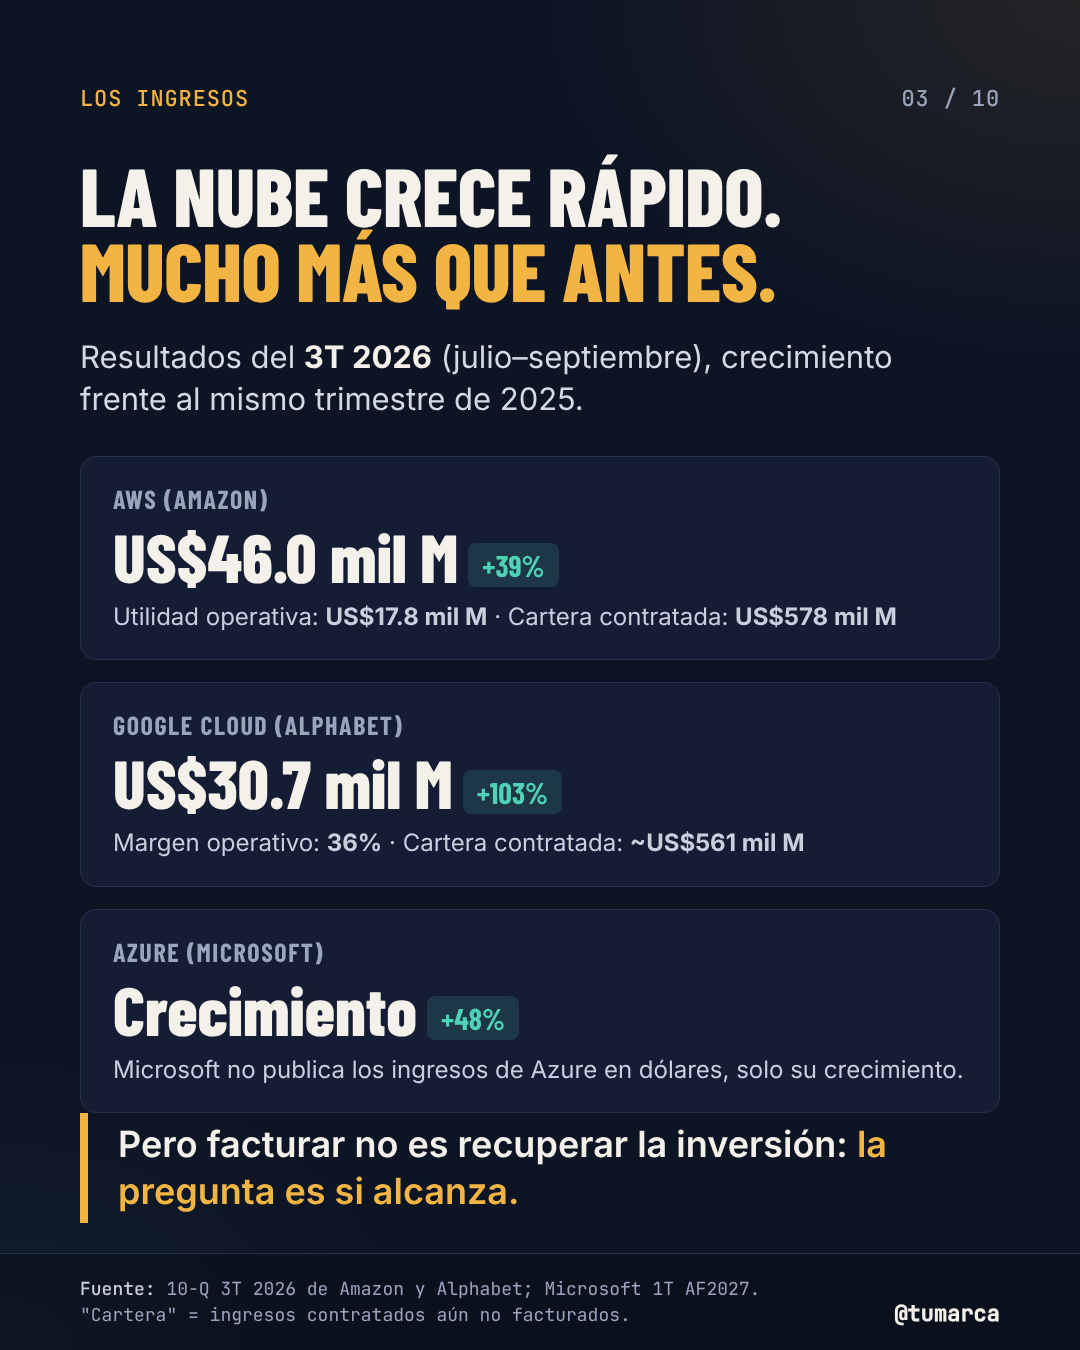
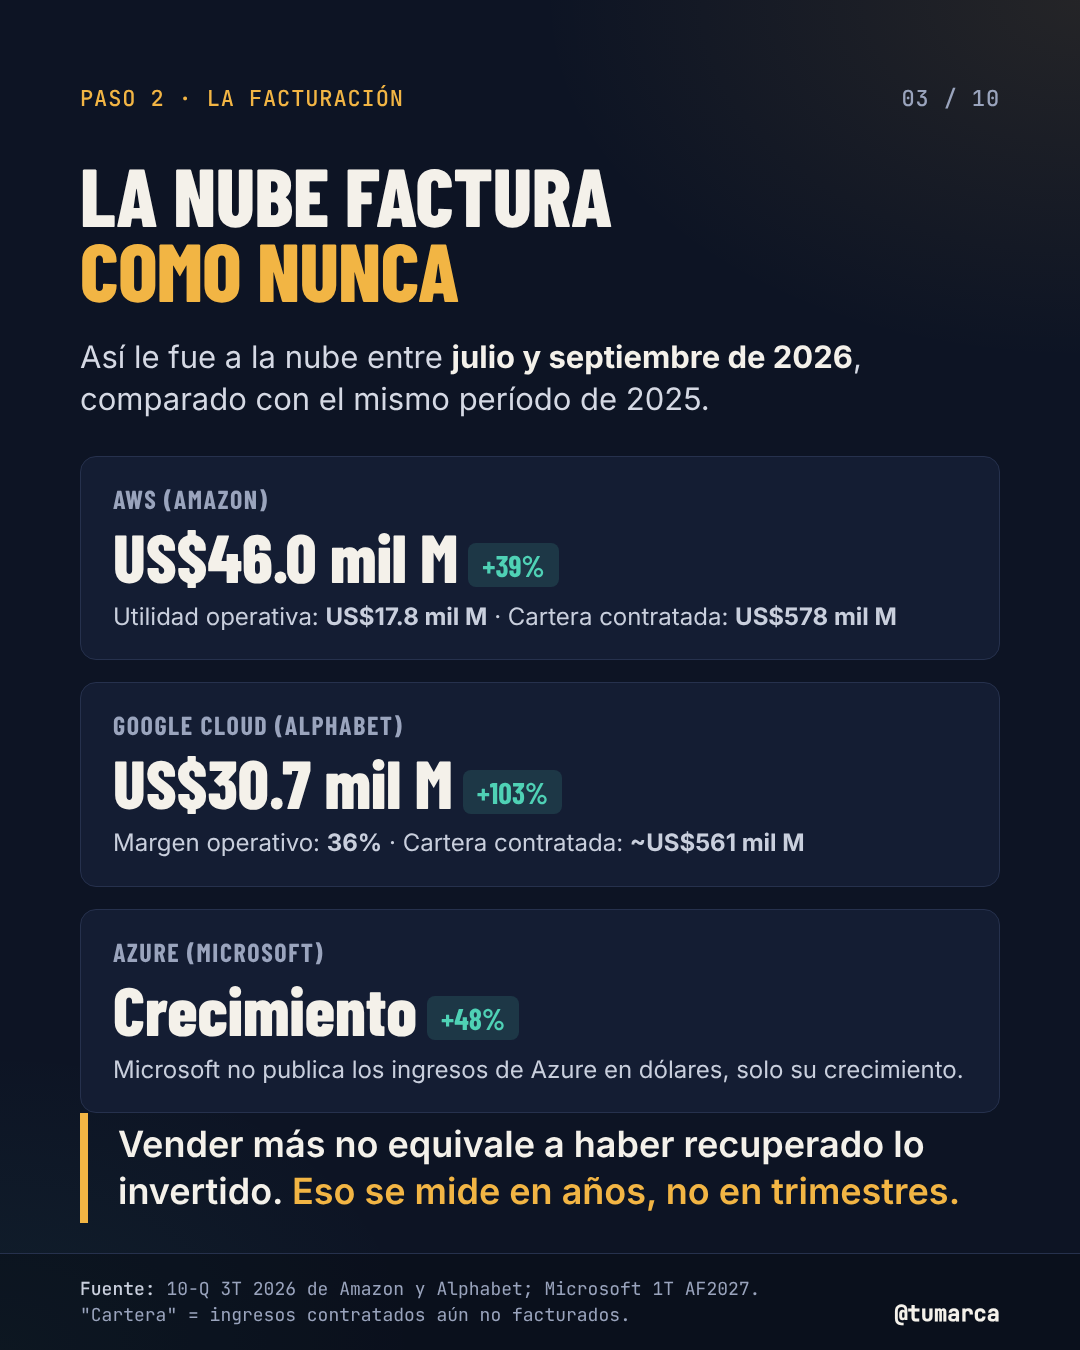
Reescribir los textos del carrusel con un enfoque propio (sigue el dinero)
Claude-Session: https://claude.ai/code/session_01BqN8QAh1DTFcE5FUP8D33u

Changed region(s): [[0.0611, 0.1244, 0.825, 0.3111], [0.0917, 0.84, 0.8861, 0.9022], [0.0611, 0.0622, 0.3667, 0.0933]]

diff --git a/carrusel-ia-dinero/index.html b/carrusel-ia-dinero/index.html
@@ -55,7 +55,7 @@
   .total{margin-top:auto;margin-bottom:44px;background:var(--gold);color:var(--bg);border-radius:14px;
          padding:30px 38px;display:flex;justify-content:space-between;align-items:center}
   .total .k{font:700 30px "Barlow Condensed";text-transform:uppercase;letter-spacing:.02em;max-width:420px;line-height:1.05}
-  .total .v{font:800 84px "Barlow Condensed";line-height:1}
+  .total .v{font:800 72px "Barlow Condensed";line-height:1}
 
   .cards{display:grid;gap:22px}
   .card{background:var(--bg2);border:1px solid var(--line);border-radius:16px;padding:26px 32px}
@@ -76,9 +76,9 @@
 
 <!-- 01 PORTADA -->
 <section class="slide" id="s01">
-  <div class="top"><span class="tag">IA · DINERO · 2026</span><span>01 / 10</span></div>
-  <h1>La IA va a cambiar el mundo.<br><span class="gold">¿Pero quién va a ganar dinero?</span></h1>
-  <p class="lede">Lo que se invierte, lo que se factura, quién cobra y quién se endeuda. <b>Cada cifra, con su fuente.</b></p>
+  <div class="top"><span class="tag">SIGUE EL DINERO · IA 2026</span><span>01 / 10</span></div>
+  <h1>Nunca se invirtió tanto en tecnología.<br><span class="gold">¿Quién se lo queda?</span></h1>
+  <p class="lede">Recorremos la cadena completa: de dónde sale el dinero, quién lo cobra hoy y quién carga con la deuda. <b>Todo con números y fuentes.</b></p>
   <div class="body">
     <div class="cards" style="grid-template-columns:1fr 1fr 1fr;margin-top:30px">
       <div class="card"><div class="h">Capex 2026</div><div class="big gold" style="font-size:64px">~US$730</div><div class="note">mil millones · 4 gigantes tecnológicas</div></div>
@@ -87,7 +87,7 @@
     </div>
     <div style="margin-top:auto;margin-bottom:46px;display:flex;justify-content:space-between;align-items:center">
       <span class="stamp">DATOS AL 12 · NOV · 2026</span>
-      <span style="font:700 40px 'Barlow Condensed';text-transform:uppercase;color:var(--gold)">Desliza →</span>
+      <span style="font:700 40px 'Barlow Condensed';text-transform:uppercase;color:var(--gold)">Empieza aquí →</span>
     </div>
   </div>
   <div class="foot"><div class="src">Fuentes detalladas en cada lámina y en la lámina 10.</div><div class="brand"></div></div>
@@ -95,9 +95,9 @@
 
 <!-- 02 CAPEX -->
 <section class="slide" id="s02">
-  <div class="top"><span class="tag">LA APUESTA</span><span>02 / 10</span></div>
-  <h2>~US$730 mil millones<br><span class="gold">en un solo año</span></h2>
-  <p class="lede">Gasto de capital (capex) previsto para <b>2026</b>: centros de datos, chips y energía. En miles de millones de US$.</p>
+  <div class="top"><span class="tag">PASO 1 · LA INVERSIÓN</span><span>02 / 10</span></div>
+  <h2>Cuatro empresas,<br><span class="gold">un cheque de ~US$730 mil M</span></h2>
+  <p class="lede">Lo que Amazon, Alphabet, Microsoft y Meta planean destinar en <b>2026</b> a servidores, chips, terrenos y electricidad. En miles de millones de US$.</p>
   <div class="body">
     <div class="bars">
       <div class="bar-row"><div class="bar-label">Amazon<small>guía ~220</small></div>
@@ -109,17 +109,17 @@
       <div class="bar-row"><div class="bar-label">Meta<small>guía 135–145</small></div>
         <div class="track"><div class="fill" style="width:54%">135</div><div class="ext" style="left:54%;width:4%"></div><span class="valout" style="left:60%">–145</span></div></div>
     </div>
-    <p style="font-size:24px;color:var(--mute);margin-top:30px;line-height:1.4">Microsoft recortó su cifra de 175 a 170 mil M el 28 oct por retrasos de capacidad de terceros. Alphabet y Meta ya anticipan <b style="color:var(--ink)">más</b> gasto en 2027.</p>
-    <div class="total"><div class="k">Total combinado 2026</div><div class="v">US$720–740 mil M</div></div>
+    <p style="font-size:24px;color:var(--mute);margin-top:30px;line-height:1.4">Microsoft bajó de 175 a 170 mil M porque le llegó tarde capacidad de proveedores. Para 2027, Alphabet y Meta ya avisaron que el gasto <b style="color:var(--ink)">sube</b>.</p>
+    <div class="total"><div class="k">Suma de las cuatro</div><div class="v">US$720–740 mil M</div></div>
   </div>
   <div class="foot"><div class="src"><b>Fuente:</b> guías de capex de Amazon, Alphabet, Microsoft y Meta en sus resultados del 3T 2026 (oct. 2026); recorte de Microsoft: llamada de resultados 1T año fiscal 2027 (28/10/2026).</div><div class="brand"></div></div>
 </section>
 
 <!-- 03 NUBE -->
 <section class="slide" id="s03">
-  <div class="top"><span class="tag">LOS INGRESOS</span><span>03 / 10</span></div>
-  <h2>La nube crece rápido.<br><span class="gold">Mucho más que antes.</span></h2>
-  <p class="lede">Resultados del <b>3T 2026</b> (julio–septiembre), crecimiento frente al mismo trimestre de 2025.</p>
+  <div class="top"><span class="tag">PASO 2 · LA FACTURACIÓN</span><span>03 / 10</span></div>
+  <h2>La nube factura<br><span class="gold">como nunca</span></h2>
+  <p class="lede">Así le fue a la nube entre <b>julio y septiembre de 2026</b>, comparado con el mismo período de 2025.</p>
   <div class="body">
     <div class="cards">
       <div class="card"><div class="h">AWS (Amazon)</div>
@@ -132,39 +132,39 @@
         <div class="big" style="font-size:68px">Crecimiento<span class="pill">+48%</span></div>
         <div class="note">Microsoft no publica los ingresos de Azure en dólares, solo su crecimiento.</div></div>
     </div>
-    <div class="callout">Pero facturar no es recuperar la inversión: <span class="gold">la pregunta es si alcanza.</span></div>
+    <div class="callout">Vender más no equivale a haber recuperado lo invertido. <span class="gold">Eso se mide en años, no en trimestres.</span></div>
   </div>
   <div class="foot"><div class="src"><b>Fuente:</b> 10-Q 3T 2026 de Amazon y Alphabet; Microsoft 1T AF2027. "Cartera" = ingresos contratados aún no facturados.</div><div class="brand"></div></div>
 </section>
 
 <!-- 04 BRECHA -->
 <section class="slide" id="s04">
-  <div class="top"><span class="tag">LA BRECHA</span><span>04 / 10</span></div>
-  <h2>¿Alcanza<br><span class="gold">el dinero?</span></h2>
-  <p class="lede">Bain & Company calculó cuánto tendría que facturar la industria para pagar el cómputo que planea construir.</p>
+  <div class="top"><span class="tag">PASO 3 · LA CUENTA</span><span>04 / 10</span></div>
+  <h2>Las cuentas<br><span class="gold">todavía no cierran</span></h2>
+  <p class="lede">Bain & Company estimó cuánto tendría que vender la industria cada año para financiar todo el cómputo que se está planificando.</p>
   <div class="body">
     <div class="bars" style="gap:26px">
-      <div class="bar-row" style="grid-template-columns:300px 1fr"><div class="bar-label">Necesario<small>ingresos anuales a 2030</small></div>
+      <div class="bar-row" style="grid-template-columns:300px 1fr"><div class="bar-label">Haría falta<small>ingresos por año en 2030</small></div>
         <div class="track"><div class="fill" style="width:100%">US$2 billones</div></div></div>
-      <div class="bar-row" style="grid-template-columns:300px 1fr"><div class="bar-label">Alcanzable<small>aun con ahorros por IA</small></div>
+      <div class="bar-row" style="grid-template-columns:300px 1fr"><div class="bar-label">Se proyecta<small>incluyendo ahorros por IA</small></div>
         <div class="track"><div class="fill" style="width:60%;background:var(--teal)">~US$1.2 bill.</div>
           <div class="ext" style="left:60%;width:40%;background:repeating-linear-gradient(135deg,rgba(255,107,94,.6) 0 8px,rgba(255,107,94,.2) 8px 16px)"></div></div></div>
     </div>
     <div class="card" style="margin-top:44px;border-color:rgba(255,107,94,.5)">
-      <div class="h">Brecha estimada</div>
+      <div class="h">Lo que falta</div>
       <div class="big red">US$800 mil millones / año</div>
       <div class="note">Bain, septiembre 2025. La demanda mundial de cómputo para IA podría llegar a 200 GW en 2030.</div>
     </div>
-    <div class="callout" style="font-size:30px">Antecedente: en junio de 2024, Sequoia Capital lo bautizó como <span class="gold">"la pregunta de los US$600 mil millones"</span>.</div>
+    <div class="callout" style="font-size:30px">La alerta no es nueva: en 2024, Sequoia Capital ya calculaba un hueco de <span class="gold">US$600 mil millones</span> entre gasto e ingresos.</div>
   </div>
   <div class="foot"><div class="src"><b>Fuente:</b> Bain & Company, Global Technology Report 2025 (23/09/2025); David Cahn, Sequoia Capital, "AI's $600B Question" (20/06/2024).</div><div class="brand"></div></div>
 </section>
 
 <!-- 05 NVIDIA -->
 <section class="slide" id="s05">
-  <div class="top"><span class="tag">LAS PALAS</span><span>05 / 10</span></div>
-  <h2 style="font-size:76px">Los que venden las palas<br><span class="gold">ya están cobrando</span></h2>
-  <p class="lede">Como en la fiebre del oro: <b>Nvidia</b> vende los chips mientras los demás buscan recuperar la inversión. Ingresos trimestrales, miles de millones de US$.</p>
+  <div class="top"><span class="tag">PASO 4 · QUIÉN COBRA HOY</span><span>05 / 10</span></div>
+  <h2 style="font-size:76px">Nvidia no espera el retorno:<br><span class="gold">lo cobra cada trimestre</span></h2>
+  <p class="lede">Sus clientes apuestan a ganar en el futuro; el proveedor de los chips factura <b>ya</b>. Ingresos por trimestre, en miles de millones de US$.</p>
   <div class="body">
     <div style="display:flex;align-items:flex-end;gap:36px;height:320px;padding:0 10px;border-bottom:2px solid var(--line)">
       <div style="flex:1;text-align:center"><div style="font:800 46px 'Barlow Condensed'">46.7</div><div style="height:131px;background:var(--line);border-radius:8px 8px 0 0;margin-top:8px"></div></div>
@@ -177,7 +177,7 @@
     </div>
     <div class="cards" style="grid-template-columns:1fr 1fr;margin-top:26px">
       <div class="card" style="padding:24px 30px"><div class="h">Centros de datos</div><div class="big" style="font-size:66px">US$89.0 mil M<span class="pill">+117%</span></div><div class="note" style="font-size:22px">93% de sus ventas del 2T</div></div>
-      <div class="card" style="padding:24px 30px"><div class="h">Margen bruto</div><div class="big teal" style="font-size:66px">75.0%</div><div class="note" style="font-size:22px">De cada US$100 vendidos, quedan US$75 tras el costo de producir</div></div>
+      <div class="card" style="padding:24px 30px"><div class="h">Margen bruto</div><div class="big teal" style="font-size:66px">75.0%</div><div class="note" style="font-size:22px">Por cada US$100 en ventas, US$75 quedan después de fabricar</div></div>
     </div>
   </div>
   <div class="foot" style="margin-top:30px"><div class="src"><b>Fuente:</b> NVIDIA, resultados del 1T y 2T del año fiscal 2027 (trimestre cerrado el 26/07/2026) y guía del 3T. AF = año fiscal de Nvidia.</div><div class="brand"></div></div>
@@ -185,63 +185,63 @@
 
 <!-- 06 RIESGO -->
 <section class="slide" id="s06">
-  <div class="top"><span class="tag">EL RIESGO</span><span>06 / 10</span></div>
-  <h2>No todos arriesgan<br><span class="gold">lo mismo</span></h2>
-  <p class="lede">Lo que importa es <b>con qué dinero</b> se paga la apuesta.</p>
+  <div class="top"><span class="tag">PASO 5 · DE DÓNDE SALE LA PLATA</span><span>06 / 10</span></div>
+  <h2>Mismo juego,<br><span class="gold">distinto colchón</span></h2>
+  <p class="lede">El riesgo cambia según <b>quién pone el capital</b> para construir.</p>
   <div class="body">
     <div class="cards">
-      <div class="card" style="border-left:8px solid var(--teal)"><div class="h teal">1 · Gigantes — pagan con su propia caja</div>
-        <div class="note" style="font-size:25px;margin-top:10px">AWS ganó <b>US$17.8 mil M</b> de utilidad operativa en un solo trimestre (3T 2026). Pueden absorber años de inversión.</div></div>
-      <div class="card" style="border-left:8px solid var(--gold)"><div class="h gold">2 · Laboratorios — dependen de inversionistas</div>
-        <div class="note" style="font-size:25px;margin-top:10px">OpenAI proyecta flujo de caja libre negativo de <b>US$278 mil M</b> entre 2026 y 2030. Anthropic reporta compromisos de cómputo por <b>~US$895 mil M</b>.</div></div>
-      <div class="card" style="border-left:8px solid var(--red)"><div class="h red">3 · Neoclouds — se financian con deuda</div>
-        <div class="note" style="font-size:25px;margin-top:10px">CoreWeave: <b>US$35.6 mil M</b> de deuda + <b>US$16.3 mil M</b> en arrendamientos; algunos bonos llegaron a rendir <b>15%</b>. Oracle: flujo de caja libre de <b>−US$23.7 mil M</b> en su año fiscal 2026.</div></div>
+      <div class="card" style="border-left:8px solid var(--teal)"><div class="h teal">1 · Caja propia — Big Tech</div>
+        <div class="note" style="font-size:25px;margin-top:10px">Generan suficiente efectivo para expandirse sin pedir prestado: AWS dejó <b>US$17.8 mil M</b> de utilidad operativa en tres meses.</div></div>
+      <div class="card" style="border-left:8px solid var(--gold)"><div class="h gold">2 · Capital de terceros — laboratorios de IA</div>
+        <div class="note" style="font-size:25px;margin-top:10px">Queman más de lo que ingresan y necesitan rondas o bolsa: OpenAI prevé <b>−US$278 mil M</b> de flujo libre entre 2026 y 2030; Anthropic ya firmó <b>~US$895 mil M</b> en cómputo.</div></div>
+      <div class="card" style="border-left:8px solid var(--red)"><div class="h red">3 · Préstamos — neoclouds y Oracle</div>
+        <div class="note" style="font-size:25px;margin-top:10px">CoreWeave carga <b>US$35.6 mil M</b> en deuda más <b>US$16.3 mil M</b> en arrendamientos, con bonos que llegaron a pagar <b>15%</b>. Oracle cerró su año fiscal con <b>−US$23.7 mil M</b> de flujo libre.</div></div>
     </div>
-    <div class="callout">Si los ingresos tardan, <span class="red">los más endeudados sufren primero.</span></div>
+    <div class="callout">Quien paga intereses <span class="red">no tiene el lujo de esperar</span> a que lleguen los ingresos.</div>
   </div>
   <div class="foot"><div class="src"><b>Fuente:</b> Amazon 3T 2026; OpenAI vía FT/Reuters (18/09/2026); Anthropic S-1/A; CoreWeave 10-Q 2T 2026; CNN (20/10/2026); Oracle 8-K AF2026.</div><div class="brand"></div></div>
 </section>
 
 <!-- 07 ANTHROPIC IPO -->
 <section class="slide" id="s07">
-  <div class="top"><span class="tag">LA PRUEBA</span><span>07 / 10</span></div>
-  <h2 style="font-size:76px">Anthropic saldría a bolsa<br><span class="gold">el 19 de noviembre (aprox.)</span></h2>
-  <p class="lede">La creadora de Claude lanzó su <i>roadshow</i> el 10 de noviembre. Será el termómetro del apetito de Wall Street por la IA.</p>
+  <div class="top"><span class="tag">PASO 6 · EL MERCADO OPINA</span><span>07 / 10</span></div>
+  <h2 style="font-size:76px">ANT: la IA pasa<br><span class="gold">su primer examen público</span></h2>
+  <p class="lede">Anthropic (la empresa de Claude) inició su <i>roadshow</i> el 10/11 y apunta a cotizar cerca del <b>19 de noviembre</b>. El precio mostrará cuánto vale este negocio para los inversionistas.</p>
   <div class="body">
     <div class="cards" style="grid-template-columns:1fr 1fr">
       <div class="card"><div class="h">Oferta</div><div class="big" style="font-size:54px">825 M acciones</div><div class="note">Clase A, a <b>US$70–78</b> c/u · Nasdaq: <b>ANT</b></div></div>
       <div class="card"><div class="h">Recaudación</div><div class="big gold" style="font-size:54px">hasta ~US$64<span style="font-size:36px"> mil M</span></div><div class="note">En el tope del rango</div></div>
-      <div class="card"><div class="h">Valoración diluida</div><div class="big" style="font-size:54px">US$1.26–1.41 bill.</div><div class="note">Hace un mes se hablaba de US$2 billones</div></div>
+      <div class="card"><div class="h">Valoración diluida</div><div class="big" style="font-size:54px">US$1.26–1.41 bill.</div><div class="note">A inicios de octubre se especulaba con US$2 billones</div></div>
       <div class="card"><div class="h">Ingresos 3T 2026</div><div class="big teal" style="font-size:54px">US$16.96 mil M</div><div class="note">vs. US$11.56 mil M en el 2T · pérdida neta 3T: <b class="red">US$23.3 mil M</b></div></div>
     </div>
-    <p style="font-size:22px;color:var(--mute);margin-top:26px;line-height:1.4">Gran parte de la pérdida es contable (no en efectivo), ligada a instrumentos financieros emitidos para levantar capital. Precio final y fecha aún <b style="color:var(--ink)">no confirmados</b> al 12/11/2026.</p>
+    <p style="font-size:22px;color:var(--mute);margin-top:26px;line-height:1.4">Buena parte de esa pérdida no es salida de caja: son cargos contables por los instrumentos con que levantó capital. Al 12/11/2026, precio y fecha siguen <b style="color:var(--ink)">sin confirmar</b>.</p>
   </div>
   <div class="foot" style="margin-top:20px"><div class="src"><b>Fuente:</b> Anthropic, anuncio del roadshow (10/11/2026); Formulario S-1/A ante la SEC; CNBC (10/11/2026); New York Times vía Gizmodo. 1 billón = 1 millón de millones.</div><div class="brand"></div></div>
 </section>
 
 <!-- 08 HISTORIA -->
 <section class="slide" id="s08">
-  <div class="top"><span class="tag">LA HISTORIA</span><span>08 / 10</span></div>
-  <h2 style="font-size:76px">La tecnología puede triunfar<br><span class="gold">y sus inversionistas perder</span></h2>
-  <p class="lede">Ya pasó. Dos veces, por lo menos.</p>
+  <div class="top"><span class="tag">ESPEJO HISTÓRICO</span><span>08 / 10</span></div>
+  <h2 style="font-size:76px">La infraestructura se queda.<br><span class="gold">El capital, no siempre.</span></h2>
+  <p class="lede">Dos auges que construyeron algo útil y aun así dejaron pérdidas enormes.</p>
   <div class="body">
     <div class="cards">
       <div class="card"><div class="h">Fiebre ferroviaria · Reino Unido, década de 1840</div>
         <div class="big red" style="font-size:64px">−50%+</div>
-        <div class="note" style="font-size:25px">Las acciones tocaron máximo en 1845; para 1850 valían <b>menos de la mitad</b>. Muchos compraron con 10% de depósito y lo perdieron todo al llegar los pagos pendientes. <span class="teal">Pero el país quedó con una red ferroviaria nacional.</span></div></div>
+        <div class="note" style="font-size:25px">Las acciones de trenes alcanzaron su techo en 1845 y cinco años después valían <b>menos de la mitad</b>. Quienes entraron pagando solo 10% quedaron atrapados cuando les exigieron el resto. <span class="teal">El legado: la red ferroviaria del país.</span></div></div>
       <div class="card"><div class="h">Burbuja puntocom · 2000–2002</div>
         <div class="big red" style="font-size:64px">−78%</div>
-        <div class="note" style="font-size:25px">El Nasdaq cayó de 5,048 (mar. 2000) a 1,114 (oct. 2002). <span class="teal">Pero internet sí cambió el mundo.</span></div></div>
+        <div class="note" style="font-size:25px">El Nasdaq pasó de 5,048 puntos (mar. 2000) a 1,114 (oct. 2002). <span class="teal">Internet siguió creciendo de todas formas.</span></div></div>
     </div>
-    <div class="callout" style="font-size:40px;font-family:'Barlow Condensed';font-weight:800;text-transform:uppercase;line-height:1.05">¿Revolución o burbuja?<br><span class="gold">Pueden ser las dos a la vez.</span></div>
+    <div class="callout" style="font-size:40px;font-family:'Barlow Condensed';font-weight:800;text-transform:uppercase;line-height:1.05">Que la tecnología funcione<br><span class="gold">no garantiza que la inversión rinda.</span></div>
   </div>
   <div class="foot"><div class="src"><b>Fuente:</b> A. Odlyzko, "Collective Hallucinations and Inefficient Markets: The British Railway Mania of the 1840s" (2010); Yale SOM, caso "George Hudson and the 1840s Railway Mania"; cierres del Nasdaq Composite.</div><div class="brand"></div></div>
 </section>
 
 <!-- 09 QUÉ VIGILAR -->
 <section class="slide" id="s09">
-  <div class="top"><span class="tag">QUÉ VIGILAR</span><span>09 / 10</span></div>
-  <h2>5 señales para<br><span class="gold">los próximos meses</span></h2>
+  <div class="top"><span class="tag">LA AGENDA</span><span>09 / 10</span></div>
+  <h2>Lo que hay que mirar<br><span class="gold">de aquí a enero</span></h2>
   <div class="body">
     <div class="cards" style="gap:18px">
       <div class="card" style="padding:24px 32px"><div class="note" style="font-size:30px;margin:0"><b class="gold">01 ·</b> <b>Debut de ANT:</b> precio final y primer día de cotización.</div></div>
@@ -250,7 +250,7 @@
       <div class="card" style="padding:24px 32px"><div class="note" style="font-size:30px;margin:0"><b class="gold">04 ·</b> <b>Deuda neocloud:</b> CoreWeave tiene US$10.6 mil M que vencen antes de fin de 2027.</div></div>
       <div class="card" style="padding:24px 32px"><div class="note" style="font-size:30px;margin:0"><b class="gold">05 ·</b> <b>Oracle (mediados de dic.):</b> ~US$300 mil M de su cartera dependen de OpenAI.</div></div>
     </div>
-    <div class="callout">La IA puede ganar. <span class="gold">La pregunta es quién cobra la factura.</span></div>
+    <div class="callout">La utilidad de la IA ya casi nadie la discute. <span class="gold">La rentabilidad, todavía sí.</span></div>
   </div>
   <div class="foot"><div class="src"><b>Fuente:</b> NVIDIA guía 3T AF27; llamadas de resultados 3T 2026 de Alphabet y Meta; CoreWeave 10-Q 2T 2026; CNBC (19/10/2026) sobre Oracle.</div><div class="brand"></div></div>
 </section>
@@ -277,7 +277,7 @@
       <div class="note" style="margin:0;font-size:22px">Montos en dólares estadounidenses. <b>"mil M"</b> = mil millones. <b>"billón"</b> = un millón de millones (trillion en inglés). Datos al 12/11/2026. Contenido informativo; <b>no es asesoría financiera.</b></div>
     </div>
   </div>
-  <div class="foot"><div class="src">¿Te sirvió? Guárdalo y compártelo.</div><div class="brand"></div></div>
+  <div class="foot"><div class="src">Guárdalo y revísalo cuando salgan los próximos resultados.</div><div class="brand"></div></div>
 </section>
 
 </body>
